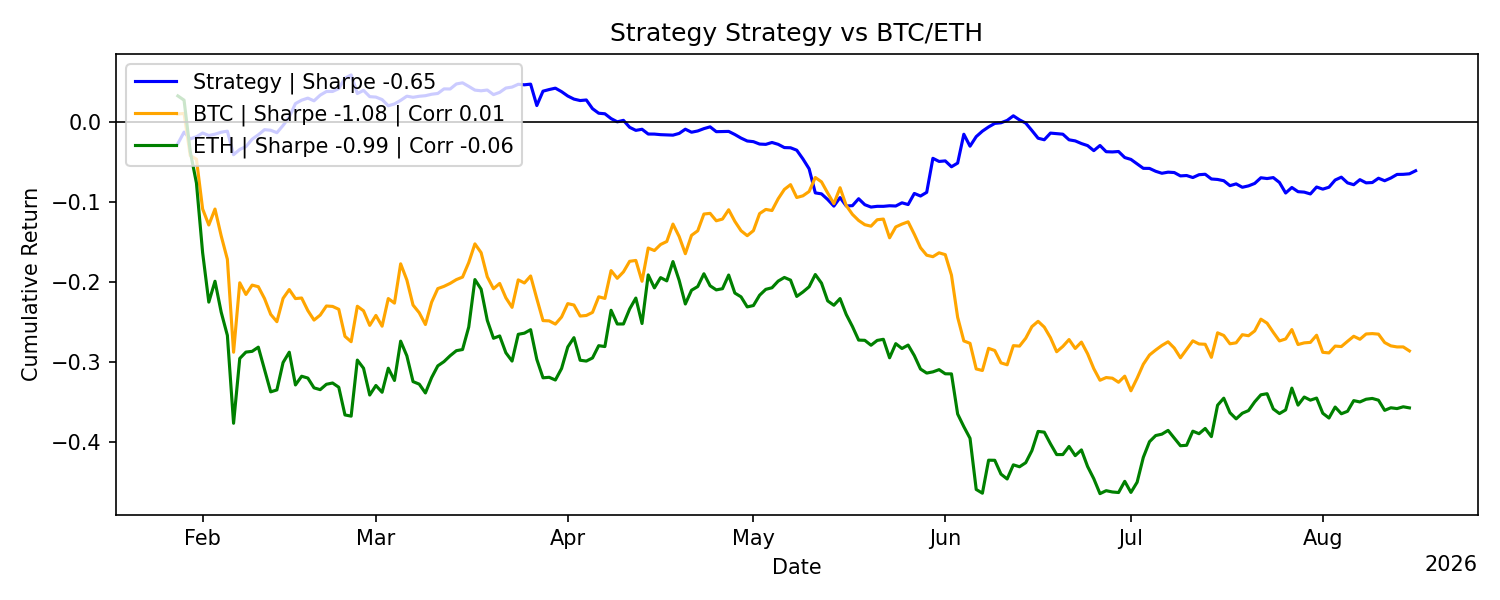
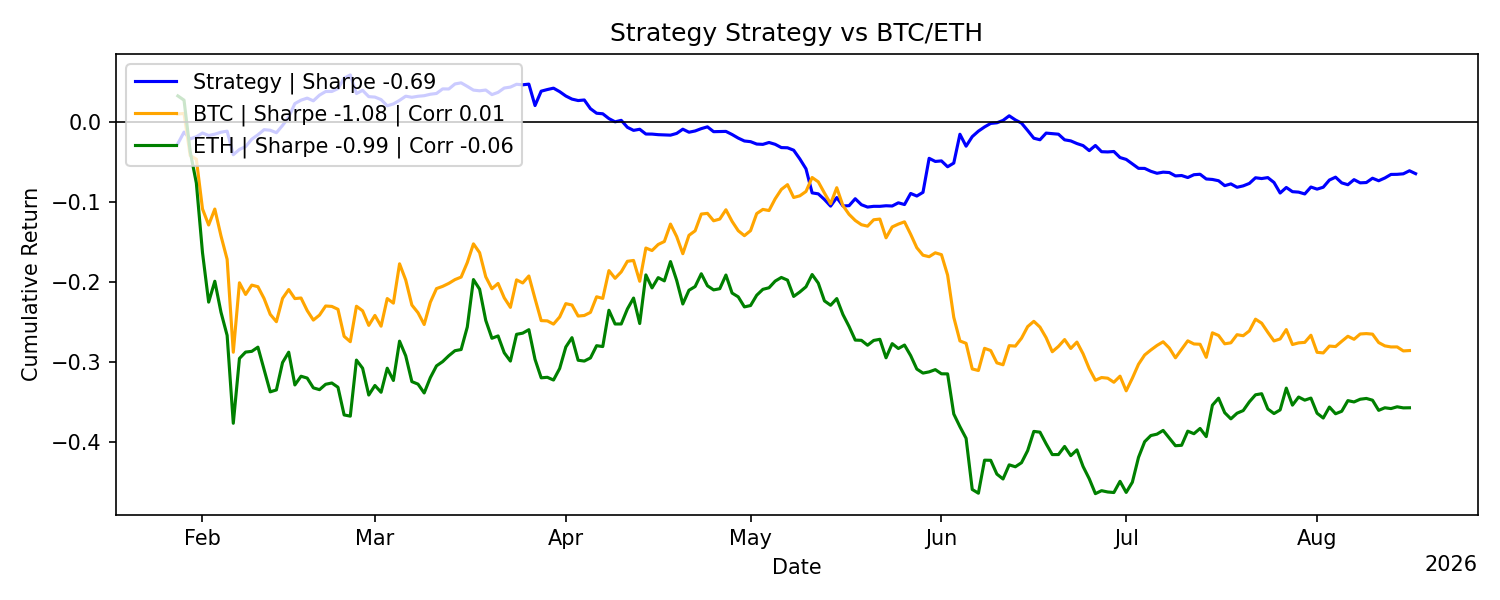
Update reports: 2026-08-17 00:05:13 UTC

diff --git a/README.md b/README.md
@@ -24,26 +24,26 @@ All results are live and reported net of transaction costs and slippage.
 <!-- METRICS_START -->
 | metric                       |        values |
 |:-----------------------------|--------------:|
-| Number of Observations       | 201           |
-| Mean Daily Return            |  -0.000278884 |
-| Daily Volatility             |   0.00823116  |
-| Mean Annualized Return       |  -0.101793    |
-| Annualized Volatility        |   0.157256    |
+| Number of Observations       | 202           |
+| Mean Daily Return            |  -0.000296741 |
+| Daily Volatility             |   0.00821458  |
+| Mean Annualized Return       |  -0.10831     |
+| Annualized Volatility        |   0.156939    |
 | Maximum Drawdown             |  -0.156146    |
-| Max Drawdown Duration (Days) | 172           |
-| Sharpe                       |  -0.647305    |
-| Sortino                      |  -0.889391    |
-| Calmar                       |  -0.651907    |
-| CAGR                         |  -0.107812    |
-| Skewness                     |   0.645174    |
-| Excess Kurtosis              |   8.8969      |
-| Win Rate                     |   0.482587    |
-| Profit Factor                |   0.899333    |
-| VaR 1%                       |  -0.0268727   |
+| Max Drawdown Duration (Days) | 173           |
+| Sharpe                       |  -0.690142    |
+| Sortino                      |  -0.950647    |
+| Calmar                       |  -0.693648    |
+| CAGR                         |  -0.113566    |
+| Skewness                     |   0.651988    |
+| Excess Kurtosis              |   8.9381      |
+| Win Rate                     |   0.480198    |
+| Profit Factor                |   0.8931      |
+| VaR 1%                       |  -0.0268597   |
 | CVaR 1%                      |  -0.0295742   |
-| VaR 5%                       |  -0.0105868   |
+| VaR 5%                       |  -0.0105445   |
 | CVaR 5%                      |  -0.0192921   |
-| Correlation with BTC         |   0.00756323  |
+| Correlation with BTC         |   0.00777526  |
 <!-- METRICS_END -->
 
 ## Sharpe Statistics
@@ -55,14 +55,14 @@ All results are live and reported net of transaction costs and slippage.
 | metric                     |   values |
 |:---------------------------|---------:|
 | alpha                      |   0.05   |
-| t-statistic                |  -0.4804 |
-| p-value                    |   0.6315 |
-| Daily Sharpe Ratio         |  -0.0339 |
-| Annualized Sharpe Ratio    |  -0.6473 |
-| Sharpe Standard Error      |   1.3677 |
-| C.I. Lower Bound           |  -3.3279 |
-| C.I. Upper Bound           |   2.0333 |
-| Bootstrap C.I. Lower Bound |  -3.6194 |
-| Bootstrap C.I. Upper Bound |   2.5746 |
+| t-statistic                |  -0.5134 |
+| p-value                    |   0.6082 |
+| Daily Sharpe Ratio         |  -0.0361 |
+| Annualized Sharpe Ratio    |  -0.6901 |
+| Sharpe Standard Error      |   1.3657 |
+| C.I. Lower Bound           |  -3.3669 |
+| C.I. Upper Bound           |   1.9866 |
+| Bootstrap C.I. Lower Bound |  -3.5881 |
+| Bootstrap C.I. Upper Bound |   2.6144 |
 <!-- SHARPE_END -->
 
